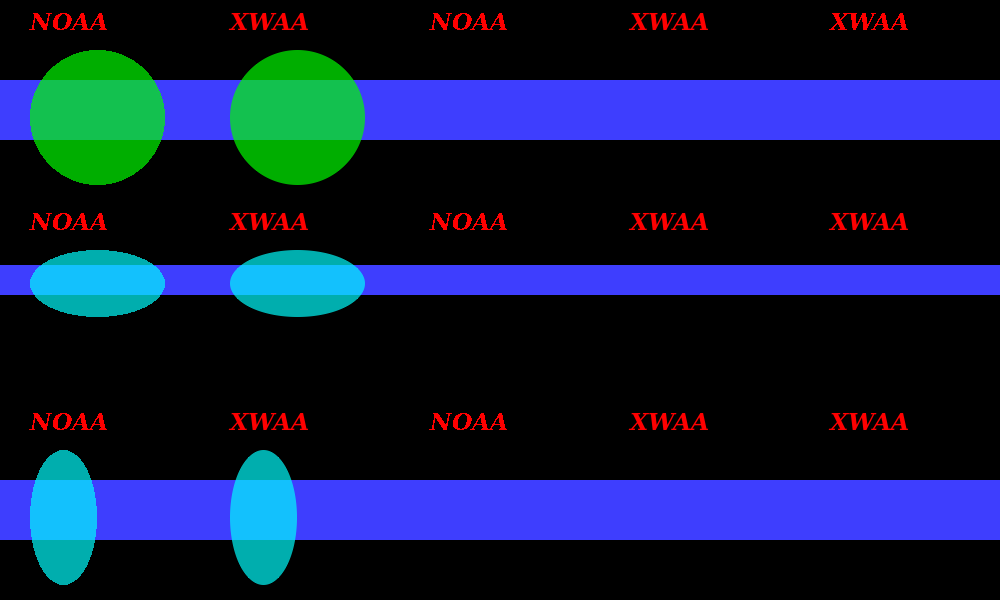
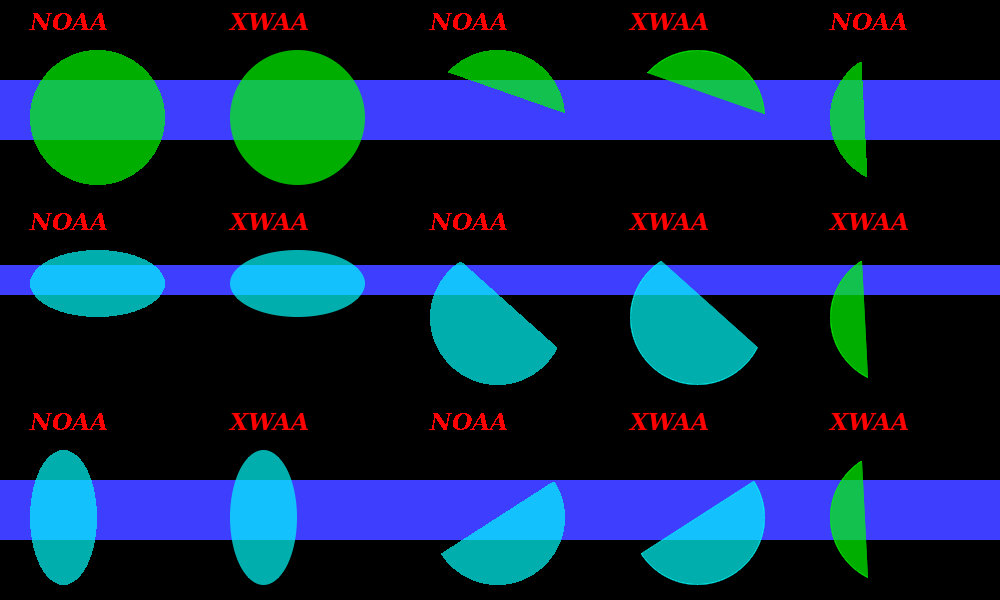
Working on fillArc() - chord mode

diff --git a/src/Pt-Gfx/Rasterizer2_Line.cpp b/src/Pt-Gfx/Rasterizer2_Line.cpp
@@ -106,7 +106,7 @@ void Rasterizer2::strokeOnePixelSolidLine(const Point& a, const Point& b, DrawLi
 
 // Xiaolin Wu's Anti-Aliased Line Algorithm
 // https://en.wikipedia.org/wiki/Xiaolin_Wu's_line_algorithm
-void Rasterizer2::fillOnePixelGLineSegmentXWAA(Pt::int32_t x1, Pt::int32_t y1, Pt::int32_t x2, Pt::int32_t y2, Pt::int32_t minX, Pt::int32_t minY, DrawLineMask* maskInOut)
+void Rasterizer2::fillOnePixelGLineSegmentXWAA(Pt::int32_t x1, Pt::int32_t y1, Pt::int32_t x2, Pt::int32_t y2, Pt::int32_t minX, Pt::int32_t minY, const std::map<Pt::int32_t, Pt::int32_t>* exclusionZone, DrawLineMask* maskInOut)
 {
     // Get the mask's coordinate as needed
     Pt::int32_t mx[4] = { MAXIMUM_COORD, MAXIMUM_COORD, MAXIMUM_COORD, MAXIMUM_COORD };
@@ -126,29 +126,33 @@ void Rasterizer2::fillOnePixelGLineSegmentXWAA(Pt::int32_t x1, Pt::int32_t y1, P
     Pt::int32_t fy2 = FIXED_POINT_FROM_INT(y2);
 
     // A helper macro to fill pixel
-    #define XW_FILL_PIXEL(IMG, X, Y, A)                                                     \
-        do {                                                                                \
-            /* Check the boundary limit, just in case */                                    \
-            if( (X) < 0 || (X) >= IMG->width() || (Y) < 0 || (Y) >= IMG->height() ) break;  \
-            /* Check if we should skip drawing the pixel */                                 \
-            bool skipDrawing = false;                                                       \
-            for(Pt::int32_t j = 0; j < 4; ++j) {                                            \
-                if( (X) != mx[j] || (Y) != my[j] ) continue;                                \
-                skipDrawing = true;                                                         \
-                break;                                                                      \
-            }                                                                               \
-            if(skipDrawing) break;                                                          \
-            if(_isTexture || _isGradient) {                                                 \
-                const Pt::int32_t bw = _brushImage->width();                                \
-                const Pt::int32_t bh = _brushImage->height();                               \
-                ConstPixel srcPixel(_brushImage->view(), (X - minX) % bw, (Y - minY) % bh); \
-                Pixel      dstPixel(IMG->view(), X, Y);                                     \
-                _image->format().setPixel(dstPixel, srcPixel, _compositionMode, A);         \
-            }                                                                               \
-            else {                                                                          \
-                Pixel pixel(IMG->view(), X, Y);                                             \
-                _image->format().setPixel(pixel, _brush.color(), _compositionMode, A);      \
-            }                                                                               \
+    #define XW_FILL_PIXEL(IMG, X, Y, A)                                                         \
+        do {                                                                                    \
+            /* Check the boundary limit, just in case */                                        \
+            if( (X) < 0 || (X) >= IMG->width() || (Y) < 0 || (Y) >= IMG->height() ) break;      \
+            /* Check if we should skip drawing the pixel */                                     \
+            bool skipDrawing = false;                                                           \
+            if(exclusionZone) {                                                                 \
+                std::map<Pt::int32_t, Pt::int32_t>::const_iterator xt = exclusionZone->find(Y); \
+                skipDrawing = ( xt != exclusionZone->end() ) && ( xt->second == X );            \
+            }                                                                                   \
+            for(Pt::int32_t j = 0; !skipDrawing && j < 4; ++j) {                                \
+                if( (X) != mx[j] || (Y) != my[j] ) continue;                                    \
+                skipDrawing = true;                                                             \
+                break;                                                                          \
+            }                                                                                   \
+            if(skipDrawing) break;                                                              \
+            if(_isTexture || _isGradient) {                                                     \
+                const Pt::int32_t bw = _brushImage->width();                                    \
+                const Pt::int32_t bh = _brushImage->height();                                   \
+                ConstPixel srcPixel(_brushImage->view(), (X - minX) % bw, (Y - minY) % bh);     \
+                Pixel      dstPixel(IMG->view(), X, Y);                                         \
+                _image->format().setPixel(dstPixel, srcPixel, _compositionMode, A);             \
+            }                                                                                   \
+            else {                                                                              \
+                Pixel pixel(IMG->view(), X, Y);                                                 \
+                _image->format().setPixel(pixel, _brush.color(), _compositionMode, A);          \
+            }                                                                                   \
         } while(false)
 
     // Swap the values as needed

diff --git a/src/Pt-Gfx/Rasterizer2.h b/src/Pt-Gfx/Rasterizer2.h
@@ -171,7 +171,7 @@ class Rasterizer2
         void strokeOnePixelSolidRect(const Point& tl, const Point& br);
         void strokeOnePixelSolidPolygon(const Point* points, size_t pointCount);
 
-        void fillOnePixelGLineSegmentXWAA(Pt::int32_t x1, Pt::int32_t y1, Pt::int32_t x2, Pt::int32_t y2, Pt::int32_t minX, Pt::int32_t minY, DrawLineMask* maskInOut);
+        void fillOnePixelGLineSegmentXWAA(Pt::int32_t x1, Pt::int32_t y1, Pt::int32_t x2, Pt::int32_t y2, Pt::int32_t minX, Pt::int32_t minY, const std::map<Pt::int32_t, Pt::int32_t>* exclusionZone, DrawLineMask* maskInOut);
 
         void fillRect(const Point& tl, const Point& br);
         void fillPolygon(const Point* points, size_t pointCount);

diff --git a/src/Pt-Gfx/ImagePainter2.cpp b/src/Pt-Gfx/ImagePainter2.cpp
@@ -1113,7 +1113,14 @@ void ImagePainter2::fillArcChordImpl(const PointF& topLeft, const SizeF& size, f
     }
 
     // Draw the closing line
-    _rasterizer->fillOnePixelGLineSegmentXWAA(x1, y1, x2, y2, minX, minY, 0);
+    std::map<Pt::int32_t, Pt::int32_t> exclusionZone;
+
+    for(Scanlines::const_iterator it = scanlines.begin(); it != scanlines.end(); ++it) {
+        if(faceL) exclusionZone[it->first] = it->second.from;
+        if(faceR) exclusionZone[it->first] = it->second.to;
+    }
+
+    _rasterizer->fillOnePixelGLineSegmentXWAA(x1, y1, x2, y2, minX, minY, &exclusionZone, 0);
 }
 
 void ImagePainter2::fillArcPieImpl(const PointF& topLeft, const SizeF& size, float degBegin, float degEnd)

diff --git a/src/Pt-Gfx/tests/ImagePainterTest2.cpp b/src/Pt-Gfx/tests/ImagePainterTest2.cpp
@@ -48,8 +48,8 @@ using namespace Pt::Gfx;
 #define DO_BENCHMARKING 1
 
 // Detailed-test enable settings for Pt-Gfx
-#define TEST_SOURCECOPY                         1
-#define TEST_SOURCEOVER                         0
+#define TEST_SOURCECOPY                         0
+#define TEST_SOURCEOVER                         1
 
 #define TEST_DRAW_LINE_AND_TEXT                 0
 #define TEST_DRAW_RECTANGLES_FILLED_RECTANGLES  0
